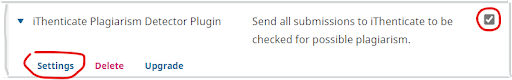
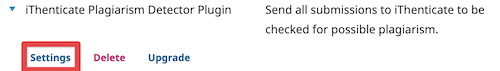
pkp/plagiarism#52 updated enable/disable behaviour to handle pkp/plagiarism#49

Changed region(s): [[0.0, 0.0, 1.0, 1.0]]

diff --git a/PlagiarismPlugin.inc.php b/PlagiarismPlugin.inc.php
@@ -84,9 +84,16 @@ class PlagiarismPlugin extends GenericPlugin {
 		$success = parent::register($category, $path, $mainContextId);
 
 		$this->addLocaleData();
-		
-		if (!($success || $this->getEnabled())) {
-			return false;	
+
+		// if plugin hasn't registered, not allow loading plugin
+		if (!$success) {
+			return false;
+		}
+
+		// Plugin has been registered but not enabled
+		// will allow to load plugin but no plugin feature will be executed
+		if (!$this->getEnabled($mainContextId)) {
+			return $success;
 		}
 		
 		HookRegistry::register('submissionsubmitstep4form::display', [$this, 'confirmEulaAcceptance']);
@@ -133,21 +140,29 @@ class PlagiarismPlugin extends GenericPlugin {
 	 * @copydoc LazyLoadPlugin::getCanEnable()
 	 */
 	public function getCanEnable($contextId = null) {
-		return !Config::getVar('ithenticate', 'ithenticate');
+		if (!Config::getVar('ithenticate', 'ithenticate')) {
+			return false;
+		}
+
+		return !$this->getEnabled($contextId);
 	}
 
 	/**
 	 * @copydoc LazyLoadPlugin::getCanDisable()
 	 */
 	public function getCanDisable($contextId = null) {
-		return !Config::getVar('ithenticate', 'ithenticate');
+		if (!Config::getVar('ithenticate', 'ithenticate')) {
+			return false;
+		}
+
+		return !$this->getEnabled($contextId);
 	}
 
 	/**
 	 * @copydoc LazyLoadPlugin::getEnabled()
 	 */
 	public function getEnabled($contextId = null) {
-		return parent::getEnabled($contextId) || Config::getVar('ithenticate', 'ithenticate');
+		return parent::getEnabled($contextId) && Config::getVar('ithenticate', 'ithenticate');
 	}
 
 	/**

diff --git a/README.md b/README.md
@@ -10,7 +10,9 @@ This plugin permits automatic submission of uploaded manuscripts to the [iThenti
    * or, paid directly to iThenticate
 2. Install the plugin via the Plugin Gallery
 3. Configure the plugin (see below)
-   * Enable the plugin via config.inc.php or in a specific journal/press/preprint context
+   * Enable the iThenticate service from `config.inc.php` by setting `ithenticate` to `On`.
+   * Enable the plugin from Plugin Gallery by clicking on the checkbox. 
+   * ![Example Enabling Plugin](images/enable-plugin.png)
    * Configure the plugin with the **API URL** and **API KEY** you get from ithenticate.com
    * ![Example Settings configuration](images/ithenticate-settings.png)
 4. The author logs in and makes a submission
@@ -49,9 +51,9 @@ The config.inc.php settings format is:
 
 [ithenticate]
 
-; Enable iThenticate to upload submission files for plagiarism checking.
-; if auto upload to iThenticate disable globally or Journal/Server/Press level
-; ithenticate = On
+; Enable/Disable iThenticate service to upload submission files for plagiarism checking.
+; Unsetting this will turn off the plugin globally.
+ithenticate = On
 
 ; Global iThenticate API URL
 ; api_url = "https://some-ithenticate-account.com"
@@ -71,7 +73,7 @@ The config.inc.php settings format is:
 ; Other settings can be configured here; see README.md for all options.
 ```
 
-> NOTE : Changing the api credentails (api url and/or api key) in the `config.inc.php` file will not update the webhook settings automatically and will require action from the submission workflow section to complete plagiarism similarity score generation process.
+> NOTE : Changing the api credentails (api_url and/or api_key) in the `config.inc.php` file will not update the webhook settings automatically and will require action from the submission workflow section to complete plagiarism similarity score generation process.
 
 ## Restrictions
 1. The submitting user must confirm the iThenticate End User License Agreement to send files to iThenticate service for plagiarism checking.
